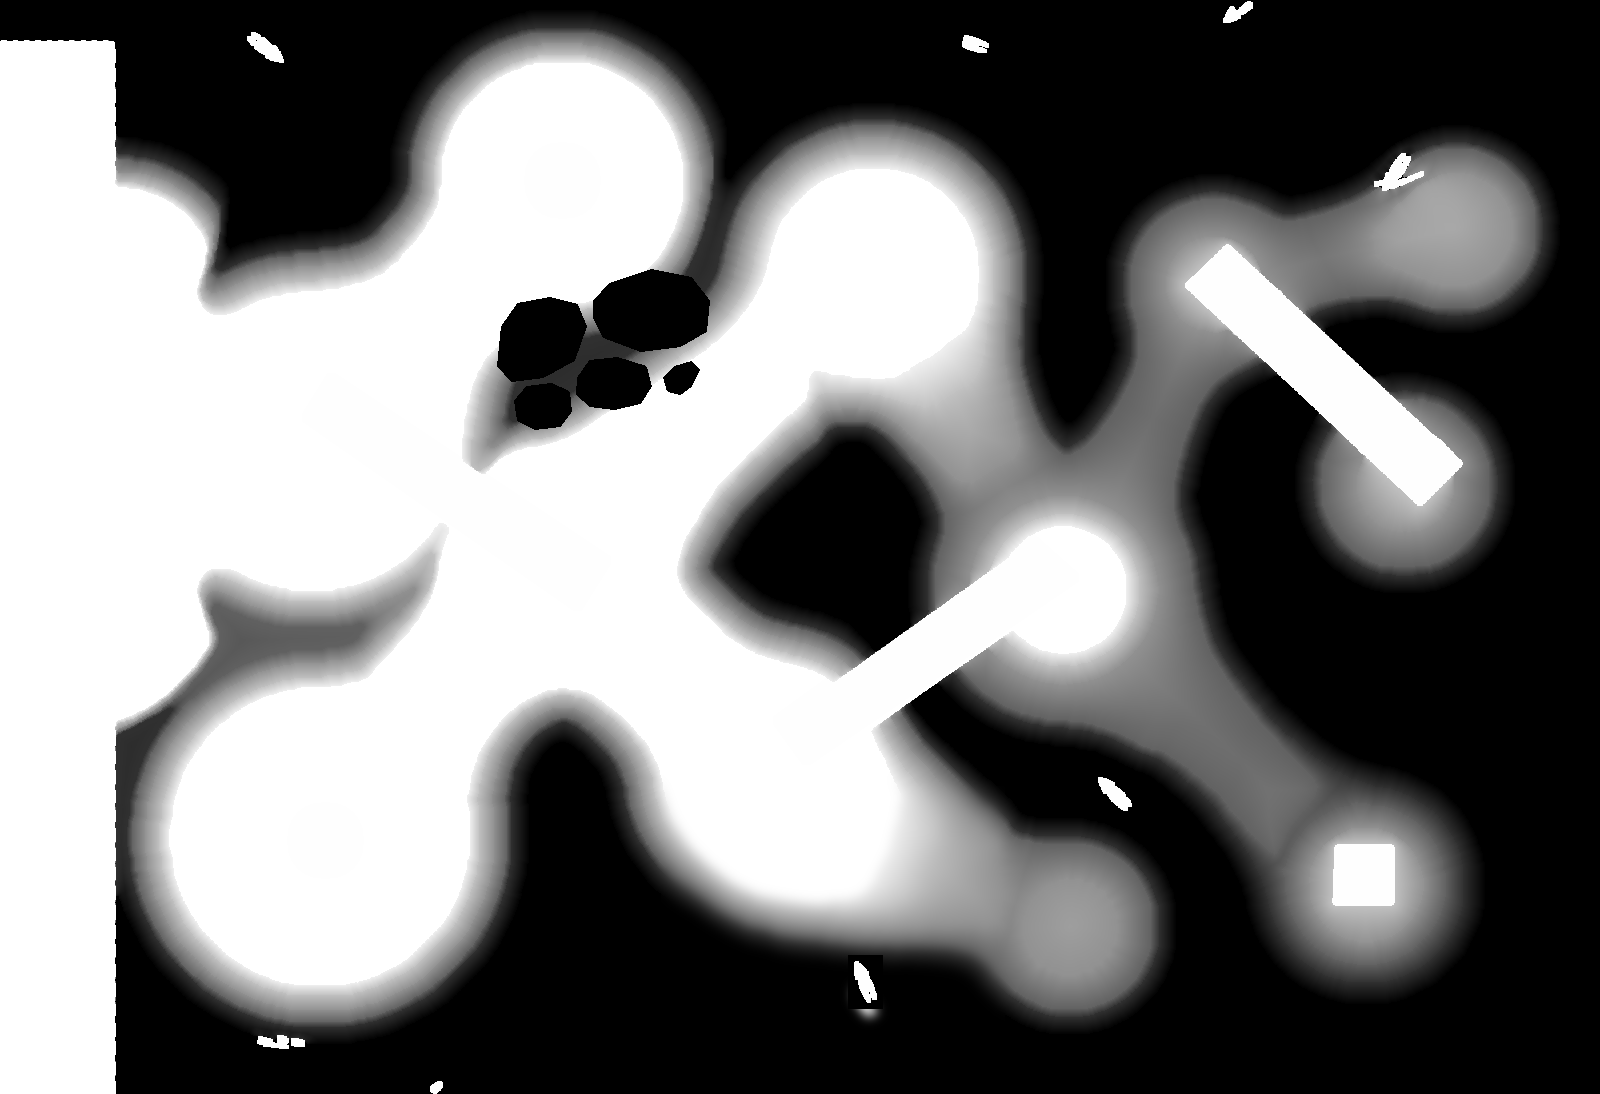
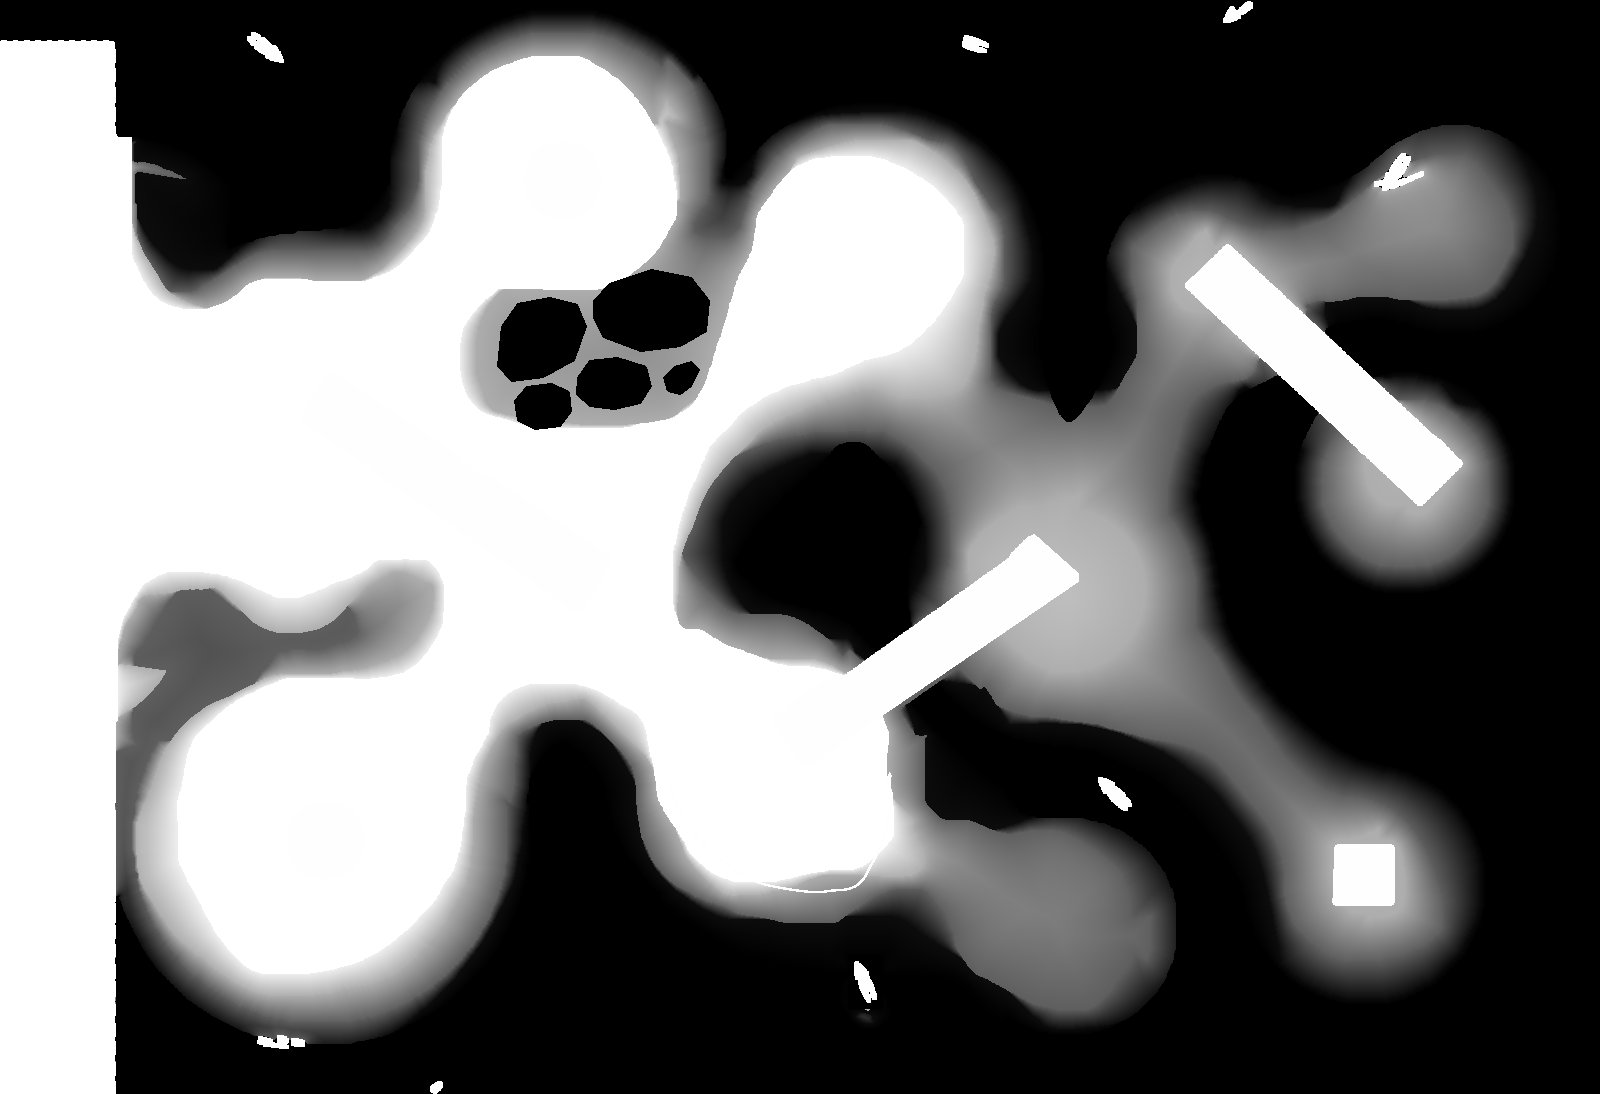
RE:TIDE 수위 시뮬: 사용자 빨간 물가선(네 수위)에 맞춘 잠김 지도
Claude-Session: https://claude.ai/code/session_0142Brk5CbPVJS1FhoM6jdER

diff --git a/assets/js/data.js b/assets/js/data.js
@@ -241,7 +241,7 @@ const SITE = {
       { heading: "Twelve Mounds, One Tissue", big: true, text: "Mounds on the eddies, paths on tangent arcs, a reef hollowed below and platforms on the crowns. Programs sit on the mounds and open and close with the tide.", images: [{src: "assets/img/re-tide/twelve-mounds.jpg", caption: "Twelve mounds, one tissue — the long pavilions and lookout towers lifted off their mounds", r: 1.678, tags: [[12.39, 14.6, "Library\nreading room · F&B · dining", "", "pin", 4.7], [52.94, 4.73, "Lookout tower T1\nview over the inner port", "", "pin", 3.4], [88.33, 16.58, "Water sports pavilion\nkayak · sea-pool programs", "", "pin", 6.7], [61.9, 27.5, "Stage pavilion\nopen-air theatre, facing Dock 1", "", "pin", 9.0], [11.7, 47.7, "Lookout tower T2", "", "pin", 5.2], [86.28, 51.12, "Lookout tower T3", "", "pin", 6.0], [37.99, 34.79, "Tidal pools\nfilled at every low water", "", "pin", 6.9], [70.25, 27.06, "Ferry · water taxi landing", "", "pin", 3.0], [3.69, 44.67, "Entrance mound\nfrom the old dock", "", "pin", 9.0]]}] },
       { heading: "Flow Layers", text: "Five layers, 21 programs, 58 links: strips from the low outer edge to the high inner ground, each carrying its own programs.", images: [], widget: "flow" },
       { heading: "Rising Water — Simulation", big: true, // 핀 #32: 평면·단면을 위아래로 크게
-        text: "One site at six water levels — the order in which the mounds become islands and go under. White is walkable ground joined to the pier, hatching is ground reached only over a long pavilion, dots are islands cut off by the sea, and a dashed line marks a mound already under water. Drag the bar or press play to run the water up and down.", images: [], sim: { r: 1.462, flood: "assets/img/re-tide/water-flood.png", frames: [
+        text: "One site at six water levels — the order in which the mounds become islands and go under. White is walkable ground joined to the pier, hatching is ground reached only over a long pavilion, dots are islands cut off by the sea, and a dashed line marks a mound already under water. Drag the bar or press play to run the water up and down.", images: [], sim: { r: 1.462, flood: "assets/img/re-tide/water-flood.png?v=26112601", frames: [
         { src: "assets/img/re-tide/water-a.jpg", dry: "assets/img/re-tide/water-dry-a.jpg", level: 2.43, share: "higher 82.5 % of the year", d: "Mean low-water stand. The sea is at its lowest and every mound is joined on foot — 39,512 m² of walkable ground." },
         { src: "assets/img/re-tide/water-b.jpg", dry: "assets/img/re-tide/water-dry-b.jpg", level: 4.75, share: "higher 50.0 % of the year", d: "Mean sea level: the water stands higher than this for half the year. The bays fill, but every mound still holds to the pier — 34,233 m² on foot." },
         { src: "assets/img/re-tide/water-c.jpg", dry: "assets/img/re-tide/water-dry-c.jpg", level: 5.45, share: "higher 40.9 % of the year", d: "The farthest +8.5 m mound, M10, breaks away first and becomes an island — 31,049 m² on foot." },

diff --git a/project.html b/project.html
@@ -10,8 +10,8 @@
   <link rel="preconnect" href="https://fonts.gstatic.com" crossorigin />
   <link rel="stylesheet" href="https://fonts.googleapis.com/css2?family=Inter:wght@300;400;500;600&display=swap" />
   <link rel="stylesheet" href="https://cdn.jsdelivr.net/npm/pretendard@1.3.9/dist/web/variable/pretendardvariable-dynamic-subset.min.css" />
-  <link rel="stylesheet" href="assets/css/site.css?v=202611260051" />
-  <link rel="stylesheet" href="assets/css/tune.css?v=202611260051" id="tune-css" />
+  <link rel="stylesheet" href="assets/css/site.css?v=202611260100" />
+  <link rel="stylesheet" href="assets/css/tune.css?v=202611260100" id="tune-css" />
   <script>
     // 저장해 둔 라이트/다크를 화면이 그려지기 전에 적용해요 (기본은 흰 배경)
     try { if (localStorage.getItem("yp-mode") === "dark") document.documentElement.dataset.mode = "dark"; } catch (e) {}
@@ -24,12 +24,12 @@
   <script src="https://cdnjs.cloudflare.com/ajax/libs/gsap/3.12.5/gsap.min.js"></script>
   <script src="https://cdnjs.cloudflare.com/ajax/libs/gsap/3.12.5/ScrollTrigger.min.js"></script>
   <script src="https://cdn.jsdelivr.net/npm/lenis@1.1.13/dist/lenis.min.js"></script>
-  <script src="assets/js/data.js?v=202611260051"></script>
-  <script src="assets/js/drawings.js?v=202611260051"></script>
-  <script src="assets/js/tide.js?v=202611260051"></script>
-  <script src="assets/js/church.js?v=202611260051"></script>
-  <script src="assets/js/figw.js?v=202611260051"></script>
-  <script src="assets/js/site.js?v=202611260051"></script>
-  <script src="assets/js/pullback.js?v=202611260051"></script>
+  <script src="assets/js/data.js?v=202611260100"></script>
+  <script src="assets/js/drawings.js?v=202611260100"></script>
+  <script src="assets/js/tide.js?v=202611260100"></script>
+  <script src="assets/js/church.js?v=202611260100"></script>
+  <script src="assets/js/figw.js?v=202611260100"></script>
+  <script src="assets/js/site.js?v=202611260100"></script>
+  <script src="assets/js/pullback.js?v=202611260100"></script>
 </body>
 </html>

diff --git a/philosophy.html b/philosophy.html
@@ -10,8 +10,8 @@
   <link rel="preconnect" href="https://fonts.gstatic.com" crossorigin />
   <link rel="stylesheet" href="https://fonts.googleapis.com/css2?family=Inter:wght@300;400;500;600&display=swap" />
   <link rel="stylesheet" href="https://cdn.jsdelivr.net/npm/pretendard@1.3.9/dist/web/variable/pretendardvariable-dynamic-subset.min.css" />
-  <link rel="stylesheet" href="assets/css/site.css?v=202611260051" />
-  <link rel="stylesheet" href="assets/css/tune.css?v=202611260051" id="tune-css" />
+  <link rel="stylesheet" href="assets/css/site.css?v=202611260100" />
+  <link rel="stylesheet" href="assets/css/tune.css?v=202611260100" id="tune-css" />
   <script>
     // 저장해 둔 라이트/다크를 화면이 그려지기 전에 적용해요 (기본은 흰 배경)
     try { if (localStorage.getItem("yp-mode") === "dark") document.documentElement.dataset.mode = "dark"; } catch (e) {}
@@ -23,10 +23,10 @@
   <script src="https://cdnjs.cloudflare.com/ajax/libs/gsap/3.12.5/gsap.min.js"></script>
   <script src="https://cdnjs.cloudflare.com/ajax/libs/gsap/3.12.5/ScrollTrigger.min.js"></script>
   <script src="https://cdn.jsdelivr.net/npm/lenis@1.1.13/dist/lenis.min.js"></script>
-  <script src="assets/js/data.js?v=202611260051"></script>
-  <script src="assets/js/drawings.js?v=202611260051"></script>
-  <script src="assets/js/citygame.js?v=202611260051"></script>
-  <script src="assets/js/site.js?v=202611260051"></script>
-  <script src="assets/js/pullback.js?v=202611260051"></script>
+  <script src="assets/js/data.js?v=202611260100"></script>
+  <script src="assets/js/drawings.js?v=202611260100"></script>
+  <script src="assets/js/citygame.js?v=202611260100"></script>
+  <script src="assets/js/site.js?v=202611260100"></script>
+  <script src="assets/js/pullback.js?v=202611260100"></script>
 </body>
 </html>

diff --git a/about.html b/about.html
@@ -10,8 +10,8 @@
   <link rel="preconnect" href="https://fonts.gstatic.com" crossorigin />
   <link rel="stylesheet" href="https://fonts.googleapis.com/css2?family=Inter:wght@300;400;500;600&display=swap" />
   <link rel="stylesheet" href="https://cdn.jsdelivr.net/npm/pretendard@1.3.9/dist/web/variable/pretendardvariable-dynamic-subset.min.css" />
-  <link rel="stylesheet" href="assets/css/site.css?v=202611260051" />
-  <link rel="stylesheet" href="assets/css/tune.css?v=202611260051" id="tune-css" />
+  <link rel="stylesheet" href="assets/css/site.css?v=202611260100" />
+  <link rel="stylesheet" href="assets/css/tune.css?v=202611260100" id="tune-css" />
   <script>
     // 저장해 둔 라이트/다크를 화면이 그려지기 전에 적용해요 (기본은 흰 배경)
     try { if (localStorage.getItem("yp-mode") === "dark") document.documentElement.dataset.mode = "dark"; } catch (e) {}
@@ -23,9 +23,9 @@
   <script src="https://cdnjs.cloudflare.com/ajax/libs/gsap/3.12.5/gsap.min.js"></script>
   <script src="https://cdnjs.cloudflare.com/ajax/libs/gsap/3.12.5/ScrollTrigger.min.js"></script>
   <script src="https://cdn.jsdelivr.net/npm/lenis@1.1.13/dist/lenis.min.js"></script>
-  <script src="assets/js/data.js?v=202611260051"></script>
-  <script src="assets/js/drawings.js?v=202611260051"></script>
-  <script src="assets/js/site.js?v=202611260051"></script>
-  <script src="assets/js/pullback.js?v=202611260051"></script>
+  <script src="assets/js/data.js?v=202611260100"></script>
+  <script src="assets/js/drawings.js?v=202611260100"></script>
+  <script src="assets/js/site.js?v=202611260100"></script>
+  <script src="assets/js/pullback.js?v=202611260100"></script>
 </body>
 </html>

diff --git a/archive.html b/archive.html
@@ -10,8 +10,8 @@
   <link rel="preconnect" href="https://fonts.gstatic.com" crossorigin />
   <link rel="stylesheet" href="https://fonts.googleapis.com/css2?family=Inter:wght@300;400;500;600&display=swap" />
   <link rel="stylesheet" href="https://cdn.jsdelivr.net/npm/pretendard@1.3.9/dist/web/variable/pretendardvariable-dynamic-subset.min.css" />
-  <link rel="stylesheet" href="assets/css/site.css?v=202611260051" />
-  <link rel="stylesheet" href="assets/css/tune.css?v=202611260051" id="tune-css" />
+  <link rel="stylesheet" href="assets/css/site.css?v=202611260100" />
+  <link rel="stylesheet" href="assets/css/tune.css?v=202611260100" id="tune-css" />
   <script>
     // 저장해 둔 라이트/다크를 화면이 그려지기 전에 적용해요 (기본은 흰 배경)
     try { if (localStorage.getItem("yp-mode") === "dark") document.documentElement.dataset.mode = "dark"; } catch (e) {}
@@ -23,9 +23,9 @@
   <script src="https://cdnjs.cloudflare.com/ajax/libs/gsap/3.12.5/gsap.min.js"></script>
   <script src="https://cdnjs.cloudflare.com/ajax/libs/gsap/3.12.5/ScrollTrigger.min.js"></script>
   <script src="https://cdn.jsdelivr.net/npm/lenis@1.1.13/dist/lenis.min.js"></script>
-  <script src="assets/js/data.js?v=202611260051"></script>
-  <script src="assets/js/drawings.js?v=202611260051"></script>
-  <script src="assets/js/site.js?v=202611260051"></script>
-  <script src="assets/js/pullback.js?v=202611260051"></script>
+  <script src="assets/js/data.js?v=202611260100"></script>
+  <script src="assets/js/drawings.js?v=202611260100"></script>
+  <script src="assets/js/site.js?v=202611260100"></script>
+  <script src="assets/js/pullback.js?v=202611260100"></script>
 </body>
 </html>

diff --git a/index.html b/index.html
@@ -10,8 +10,8 @@
   <link rel="preconnect" href="https://fonts.gstatic.com" crossorigin />
   <link rel="stylesheet" href="https://fonts.googleapis.com/css2?family=Inter:wght@300;400;500;600&display=swap" />
   <link rel="stylesheet" href="https://cdn.jsdelivr.net/npm/pretendard@1.3.9/dist/web/variable/pretendardvariable-dynamic-subset.min.css" />
-  <link rel="stylesheet" href="assets/css/site.css?v=202611260051" />
-  <link rel="stylesheet" href="assets/css/tune.css?v=202611260051" id="tune-css" />
+  <link rel="stylesheet" href="assets/css/site.css?v=202611260100" />
+  <link rel="stylesheet" href="assets/css/tune.css?v=202611260100" id="tune-css" />
   <script>
     // 저장해 둔 라이트/다크를 화면이 그려지기 전에 적용해요 (기본은 흰 배경)
     try { if (localStorage.getItem("yp-mode") === "dark") document.documentElement.dataset.mode = "dark"; } catch (e) {}
@@ -23,9 +23,9 @@
   <script src="https://cdnjs.cloudflare.com/ajax/libs/gsap/3.12.5/gsap.min.js"></script>
   <script src="https://cdnjs.cloudflare.com/ajax/libs/gsap/3.12.5/ScrollTrigger.min.js"></script>
   <script src="https://cdn.jsdelivr.net/npm/lenis@1.1.13/dist/lenis.min.js"></script>
-  <script src="assets/js/data.js?v=202611260051"></script>
-  <script src="assets/js/drawings.js?v=202611260051"></script>
-  <script src="assets/js/site.js?v=202611260051"></script>
-  <script src="assets/js/pullback.js?v=202611260051"></script>
+  <script src="assets/js/data.js?v=202611260100"></script>
+  <script src="assets/js/drawings.js?v=202611260100"></script>
+  <script src="assets/js/site.js?v=202611260100"></script>
+  <script src="assets/js/pullback.js?v=202611260100"></script>
 </body>
 </html>

diff --git a/lab.html b/lab.html
@@ -10,8 +10,8 @@
   <link rel="preconnect" href="https://fonts.gstatic.com" crossorigin />
   <link rel="stylesheet" href="https://fonts.googleapis.com/css2?family=Inter:wght@300;400;500;600&display=swap" />
   <link rel="stylesheet" href="https://cdn.jsdelivr.net/npm/pretendard@1.3.9/dist/web/variable/pretendardvariable-dynamic-subset.min.css" />
-  <link rel="stylesheet" href="assets/css/site.css?v=202611260051" />
-  <link rel="stylesheet" href="assets/css/tune.css?v=202611260051" id="tune-css" />
+  <link rel="stylesheet" href="assets/css/site.css?v=202611260100" />
+  <link rel="stylesheet" href="assets/css/tune.css?v=202611260100" id="tune-css" />
   <script>
     // 저장해 둔 라이트/다크를 화면이 그려지기 전에 적용해요 (기본은 흰 배경)
     try { if (localStorage.getItem("yp-mode") === "dark") document.documentElement.dataset.mode = "dark"; } catch (e) {}
@@ -23,9 +23,9 @@
   <script src="https://cdnjs.cloudflare.com/ajax/libs/gsap/3.12.5/gsap.min.js"></script>
   <script src="https://cdnjs.cloudflare.com/ajax/libs/gsap/3.12.5/ScrollTrigger.min.js"></script>
   <script src="https://cdn.jsdelivr.net/npm/lenis@1.1.13/dist/lenis.min.js"></script>
-  <script src="assets/js/data.js?v=202611260051"></script>
-  <script src="assets/js/drawings.js?v=202611260051"></script>
-  <script src="assets/js/site.js?v=202611260051"></script>
-  <script src="assets/js/pullback.js?v=202611260051"></script>
+  <script src="assets/js/data.js?v=202611260100"></script>
+  <script src="assets/js/drawings.js?v=202611260100"></script>
+  <script src="assets/js/site.js?v=202611260100"></script>
+  <script src="assets/js/pullback.js?v=202611260100"></script>
 </body>
 </html>

diff --git a/projects.html b/projects.html
@@ -10,8 +10,8 @@
   <link rel="preconnect" href="https://fonts.gstatic.com" crossorigin />
   <link rel="stylesheet" href="https://fonts.googleapis.com/css2?family=Inter:wght@300;400;500;600&display=swap" />
   <link rel="stylesheet" href="https://cdn.jsdelivr.net/npm/pretendard@1.3.9/dist/web/variable/pretendardvariable-dynamic-subset.min.css" />
-  <link rel="stylesheet" href="assets/css/site.css?v=202611260051" />
-  <link rel="stylesheet" href="assets/css/tune.css?v=202611260051" id="tune-css" />
+  <link rel="stylesheet" href="assets/css/site.css?v=202611260100" />
+  <link rel="stylesheet" href="assets/css/tune.css?v=202611260100" id="tune-css" />
   <script>
     // 저장해 둔 라이트/다크를 화면이 그려지기 전에 적용해요 (기본은 흰 배경)
     try { if (localStorage.getItem("yp-mode") === "dark") document.documentElement.dataset.mode = "dark"; } catch (e) {}
@@ -23,9 +23,9 @@
   <script src="https://cdnjs.cloudflare.com/ajax/libs/gsap/3.12.5/gsap.min.js"></script>
   <script src="https://cdnjs.cloudflare.com/ajax/libs/gsap/3.12.5/ScrollTrigger.min.js"></script>
   <script src="https://cdn.jsdelivr.net/npm/lenis@1.1.13/dist/lenis.min.js"></script>
-  <script src="assets/js/data.js?v=202611260051"></script>
-  <script src="assets/js/drawings.js?v=202611260051"></script>
-  <script src="assets/js/site.js?v=202611260051"></script>
-  <script src="assets/js/pullback.js?v=202611260051"></script>
+  <script src="assets/js/data.js?v=202611260100"></script>
+  <script src="assets/js/drawings.js?v=202611260100"></script>
+  <script src="assets/js/site.js?v=202611260100"></script>
+  <script src="assets/js/pullback.js?v=202611260100"></script>
 </body>
 </html>

diff --git a/works.html b/works.html
@@ -10,8 +10,8 @@
   <link rel="preconnect" href="https://fonts.gstatic.com" crossorigin />
   <link rel="stylesheet" href="https://fonts.googleapis.com/css2?family=Inter:wght@300;400;500;600&display=swap" />
   <link rel="stylesheet" href="https://cdn.jsdelivr.net/npm/pretendard@1.3.9/dist/web/variable/pretendardvariable-dynamic-subset.min.css" />
-  <link rel="stylesheet" href="assets/css/site.css?v=202611260051" />
-  <link rel="stylesheet" href="assets/css/tune.css?v=202611260051" id="tune-css" />
+  <link rel="stylesheet" href="assets/css/site.css?v=202611260100" />
+  <link rel="stylesheet" href="assets/css/tune.css?v=202611260100" id="tune-css" />
   <script>
     // 저장해 둔 라이트/다크를 화면이 그려지기 전에 적용해요 (기본은 흰 배경)
     try { if (localStorage.getItem("yp-mode") === "dark") document.documentElement.dataset.mode = "dark"; } catch (e) {}
@@ -23,9 +23,9 @@
   <script src="https://cdnjs.cloudflare.com/ajax/libs/gsap/3.12.5/gsap.min.js"></script>
   <script src="https://cdnjs.cloudflare.com/ajax/libs/gsap/3.12.5/ScrollTrigger.min.js"></script>
   <script src="https://cdn.jsdelivr.net/npm/lenis@1.1.13/dist/lenis.min.js"></script>
-  <script src="assets/js/data.js?v=202611260051"></script>
-  <script src="assets/js/drawings.js?v=202611260051"></script>
-  <script src="assets/js/site.js?v=202611260051"></script>
-  <script src="assets/js/pullback.js?v=202611260051"></script>
+  <script src="assets/js/data.js?v=202611260100"></script>
+  <script src="assets/js/drawings.js?v=202611260100"></script>
+  <script src="assets/js/site.js?v=202611260100"></script>
+  <script src="assets/js/pullback.js?v=202611260100"></script>
 </body>
 </html>

diff --git a/CLAUDE.md b/CLAUDE.md
@@ -162,3 +162,4 @@
 - 2026-11-26(사용자): 뒤로가기 `.bk`는 화면 아래 가운데가 아니라 왼쪽 위 로고 바로 밑(top 36px, left --g4-e)에 고정 — site.css 끝 블록.
 - 2026-11-26(사용자): RE:TIDE 수위 시뮬 — 바탕 water-dry-a..f의 굵은 회색 물가선 지움(scratchpad `tide-lines.py`, 파빌리온 보호, 원본 bak/tide), water-flood.png에서 바다 수영장 5곳 t=0(늘 물)·파빌리온 254(`tide-flood.py`), site.js flDraw: 끝까지 마르는 땅(255) 둘레 2칸에 이웃 칸이 잠기면 물가선(NB) → 만조 +9.24에도 경계선.
 - 2026-11-26(사용자): RE:TIDE "Twelve Mounds" 분해 아이소에 프로그램 이름표 — 그림 `tags`의 새 종류 `"pin"`(`[x, y, "이름\n설명", "", "pin", 선 길이%]`, `site.js`의 `pinHtml`): (x, y)에서 위로 점선 지시선, 선 위 끝에 세로로 긴 검정 막대, 그 오른쪽에 영어 이름(굵게)+설명(회색). x>80이면 좁은 화면(≤1100px)에서 글이 선 왼쪽으로(`.pin-r`). 같은 그림의 산책로(데크)는 scratchpad `mounds-path.py`(중심선 직접 그림, 먹 45% 옅게, 원본 bak/mounds). 벡터화는 원본 .ai가 이 컨테이너에 없어 보류.
+- 2026-11-26(사용자, 마지막 기회): RE:TIDE 수위 시뮬 잠김 지도를 사용자가 빨간 선으로 그린 네 수위 물가선(+3.08 · +5.44 · +7.96 · +9.24, 스크린샷 → 1600 지도 좌표 `tw-red.py`)에 맞춰 다시 만듦(`tw-build.py`): 수위마다 땅 집합 = 빨간 선 가까이(≤30px 전부, 100px까지 점점)는 빨간 선 부호 거리, 그 밖은 예전 시뮬 물가선. +9.24는 빨간 선 안만 땅. 수위 사이는 두 물가선까지 거리 비율로 보간, 수영장 0·파빌리온 254·만조에도 남는 땅 255. 빨간 선과의 거리 중앙값 0 px(예전 6–9 px). 비교판 `tw-comp.py`, 오차 `tw-err.py`, 원본 bak/tide2. flood 경로에 `?v=`로 캐시 갱신.
